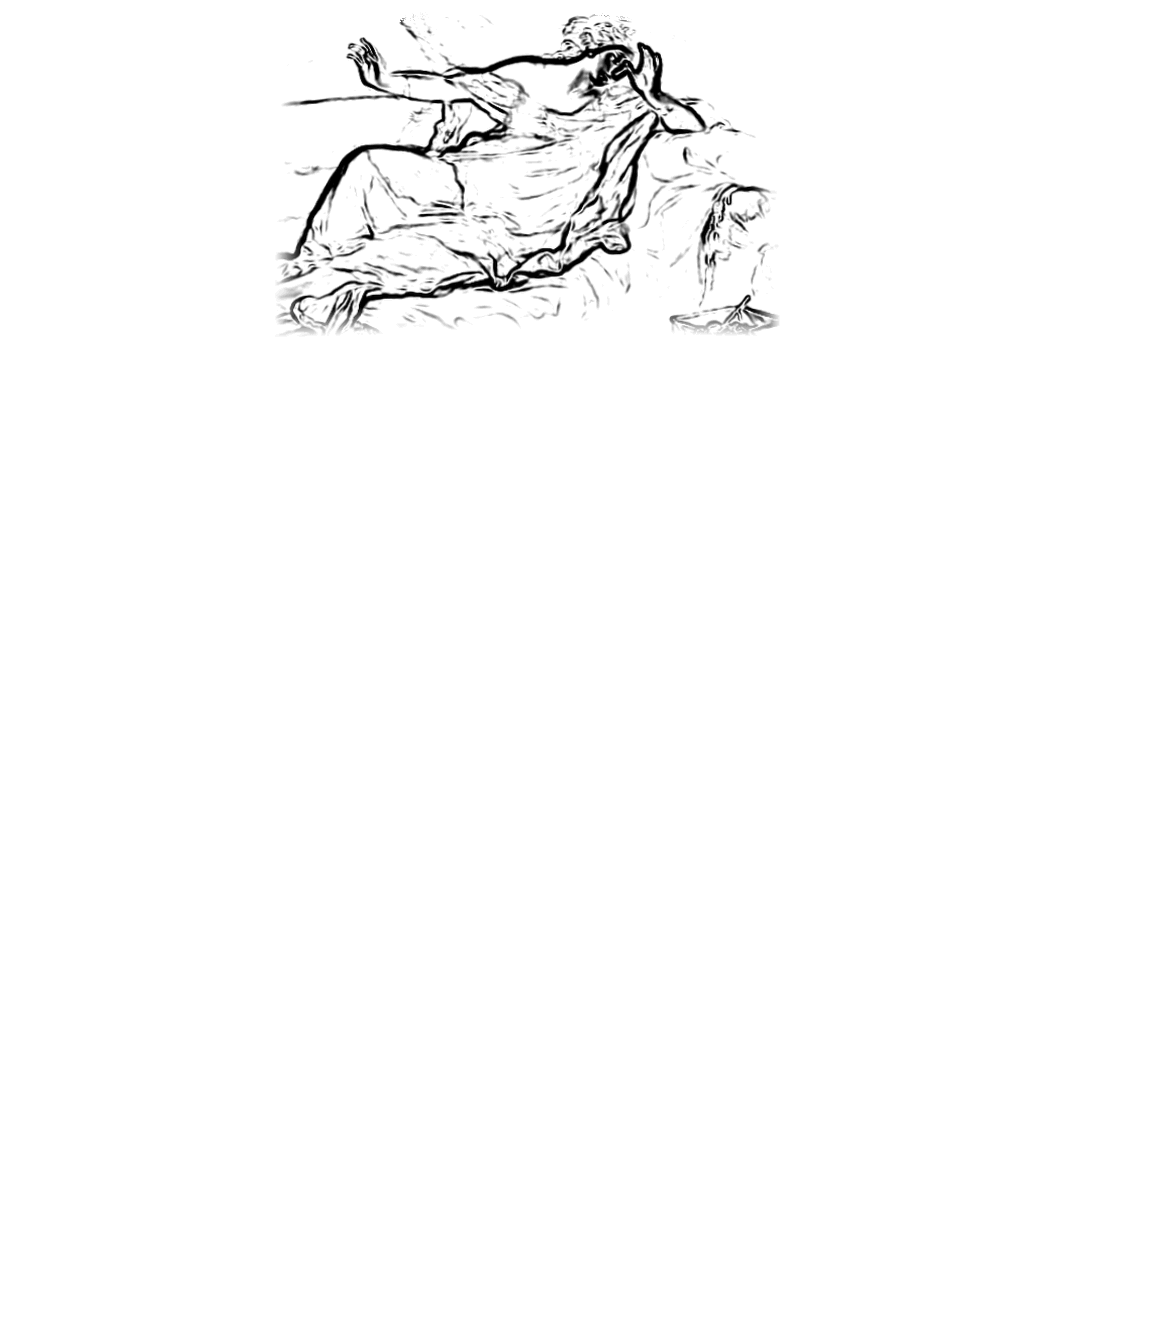
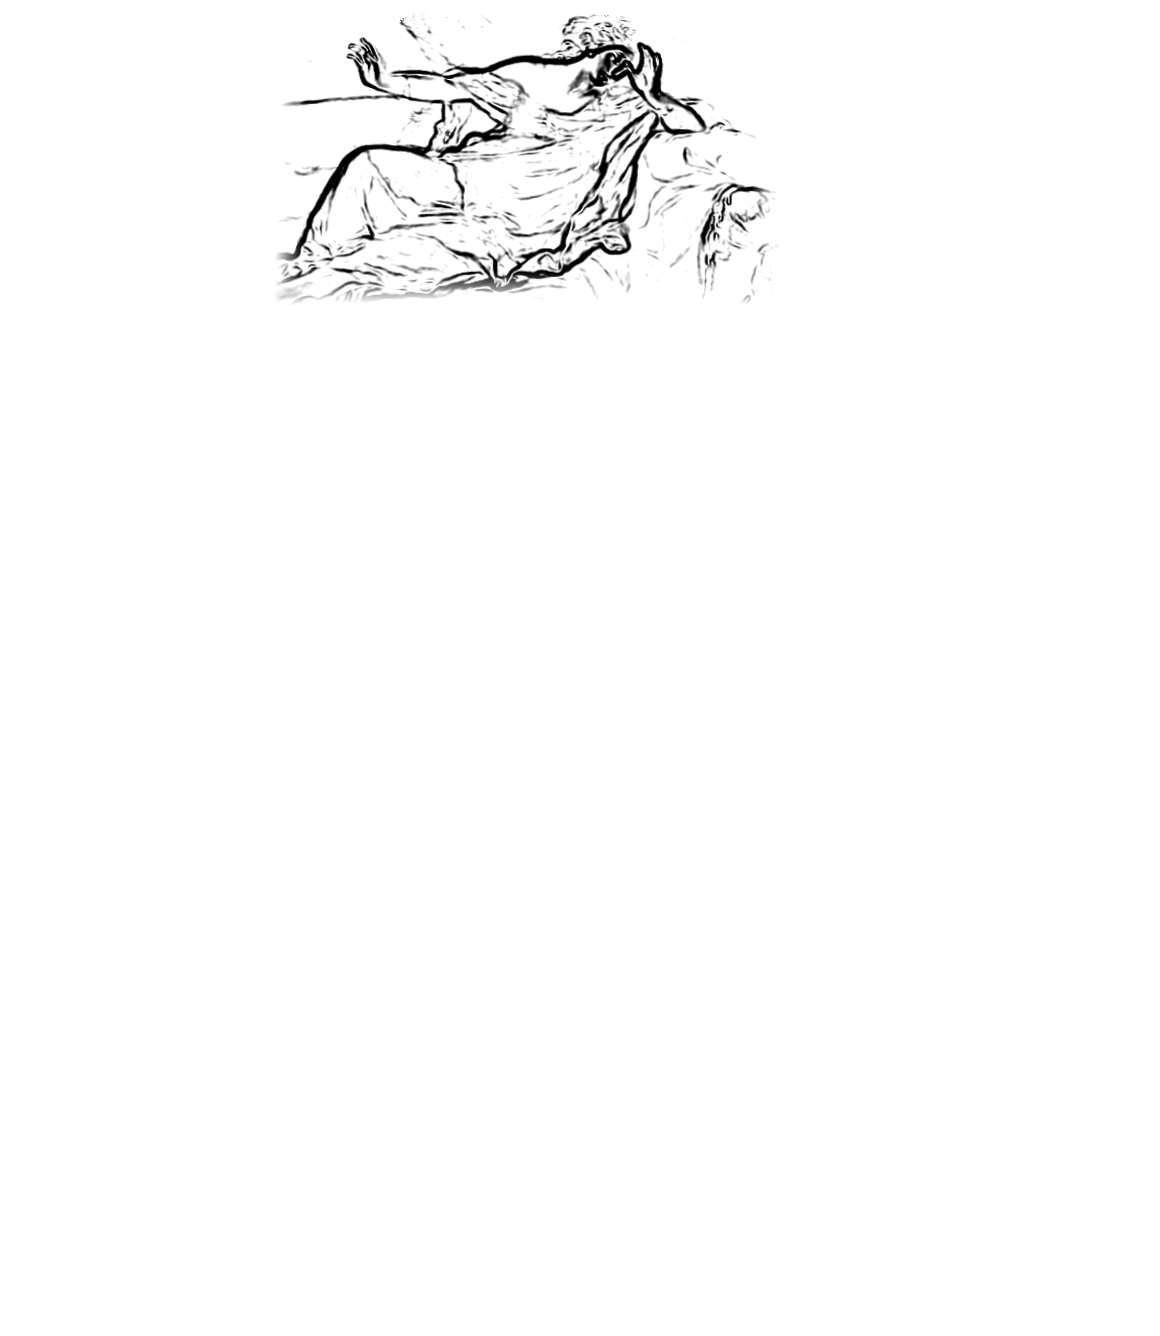
El grabador retoca la Ariadna: pie del recorte en 395 y 24 %
Dictamen de un grabador sobre la pieza YA COMPUESTA, que es el único
sitio donde esto se ve: el faldón de Ariadna aterrizaba justo encima del
eje del carro de Leonardo y entre los caballos y el filo de la placa
quedaba una banda apelmazada. Subir el pie del recorte 30 px —de y=425 a
y=395— se lleva el 45 % de la tinta de esas filas (y 230..260, de
156/178/189 px por fila a 112/98/91) sin perder la diagonal del cuerpo,
que es lo que de verdad se lee. Lo que se va con ellas es el cojín
dorado y el pie descalzo.

Y EL NÚMERO DE LA OPACIDAD SE MOVIÓ CON EL RECORTE, que es lo que no se
ve venir: con el pie en 425 el mismo alfa daba 2,28:1 al 22 %. Al subir
el pie se van las líneas más fuertes del cojín, que son las que fijaban
el percentil 99,5 de la normalización, y el mismo 22 % cae a 2,11. No es
que la calca se haya aclarado: es que su tinta «a plena fuerza» pasa a
ser otra población. De ahí el 24 %, que la devuelve a 2,24:1 —entre el
Leonardo (2,23) y el plano de la placa (2,28)—. Tocar el recorte de un
grabado obliga a volver a medir la opacidad.

Comprobado además el canto de arriba a tamaño real, que era el otro
riesgo: no hay arista recta: la tinta entra por la mano alzada y por la
roca y muere sola, con el alfa subiendo de 0,7 a 1,0 en 20 filas.

ane-ariadna.png 63 kB, tinta en el 2,24 % del cuadro. Artifact v274.

Changed region(s): [[0.2483, 0.1841, 0.4966, 0.2455], [0.5586, 0.2148, 0.6828, 0.2762]]

diff --git a/index.html b/index.html
@@ -1484,22 +1484,39 @@ body.has-cur .cowl{ --rw:46%; --rh:13%; }
    2,0» habría dado una línea casi el doble de gorda —de otro taller—.
    Se fija el sigma EFECTIVO en esos 0,99 px y se deduce el de la fuente.
 
-   Y POR ESO VA AL 22 % Y NO AL 30 %. La corona es justo donde cae la luz
+   Y POR ESO VA AL 24 % Y NO AL 30 %. La corona es justo donde cae la luz
    horneada (ane-lit al 34 %), al revés que el mentón, que está en
    sombra. Medido sobre la pieza compuesta: al 30 % da 2,83:1, más fuerte
-   que el propio Leonardo y bastante para comerse la cara; al 22 % da
-   2,27:1, gemelo del Leonardo (2,26) y del plano de la placa (2,28). Es
-   la misma regla del mentón leída al revés —SE CONSERVA EL CONTRASTE, NO
-   LA OPACIDAD—: allí hubo que subir de 30 a 46, aquí hay que bajar de 30
-   a 22.
+   que el propio Leonardo y bastante para comerse la cara; al 24 % da
+   2,24:1, entre el Leonardo (2,23) y el plano de la placa (2,28). Es la
+   misma regla del mentón leída al revés —SE CONSERVA EL CONTRASTE, NO LA
+   OPACIDAD—: allí hubo que subir de 30 a 46, aquí hay que bajar de 30
+   a 24.
 
-   FUERA EL MAR. El recorte, (200,98)-(670,425) del original, empieza
+   Y EL NÚMERO SE MOVIÓ CON EL RECORTE, que es lo que no se ve venir: con
+   el pie en 425 este mismo alfa daba 2,28 al 22 %. Al subir el pie a 395
+   se van las líneas más fuertes del cojín, que son las que fijaban el
+   percentil 99,5 de la normalización, y el mismo 22 % cae a 2,11. No es
+   que la calca se haya aclarado: es que su tinta «a plena fuerza» pasa a
+   ser otra población. Tocar el recorte de un grabado obliga a volver a
+   medir la opacidad.
+
+   FUERA EL MAR. El recorte, (200,98)-(670,395) del original, empieza
    detrás de la mano alzada, y con él se va la línea del horizonte: una
    recta larguísima sobre una cúpula curva es lo único que declara que
    hay un rectángulo pegado, lo mismo que las cornisas del marco pintado
    de la Sixtina. Se pierde el barco de Teseo alejándose, que es el
    asunto del cuadro; medía 15 px y no se leía. Queda el gesto, que sí:
    un brazo tendido hacia donde se fue y la frente caída en la otra mano.
+
+   Y EL PIE DEL RECORTE EN 395 Y NO EN 425. Lo vio un grabador sobre la
+   pieza ya compuesta: el faldón de Ariadna aterrizaba justo encima del
+   eje del carro de Leonardo, y entre los caballos y el filo de la placa
+   quedaba una banda apelmazada. Medido, subir el pie 30 px se lleva el
+   45 % de la tinta de esas filas —y 230..260, de 156/178/189 px por fila
+   a 112/98/91— sin perder la diagonal del cuerpo, que es lo que de
+   verdad se lee. Lo que se va con ellas es el cojín dorado y el pie
+   descalzo.
 
    Va en la caja (233,18) a 380 px de ancho, el canto se desvanece 26 px
    y se comba con la pieza por la misma proyección que la malla, como
@@ -1510,7 +1527,7 @@ body.has-cur .cowl{ --rw:46%; --rh:13%; }
   -webkit-mask-image:url("ane-ariadna.png"); mask-image:url("ane-ariadna.png");
   -webkit-mask-size:100% 100%; mask-size:100% 100%;
   -webkit-mask-repeat:no-repeat; mask-repeat:no-repeat;
-  opacity:.22;
+  opacity:.24;
 }
 /* La placa frontal, dorada. Es la que manda: lleva los ojos, la boca y
    casi toda la librea. Un metal no es un color plano: la luz entra por
